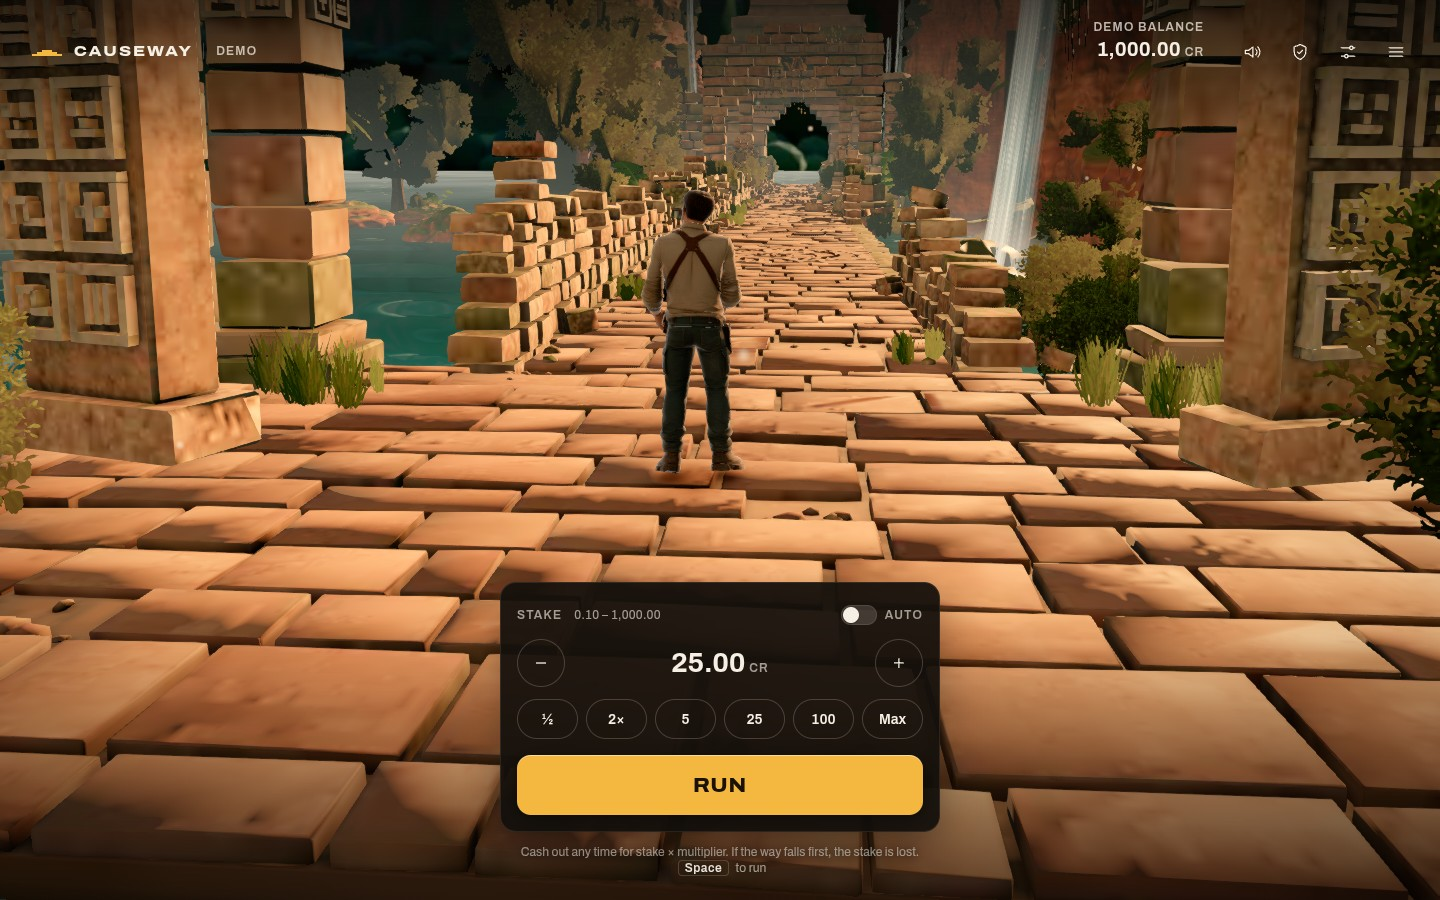
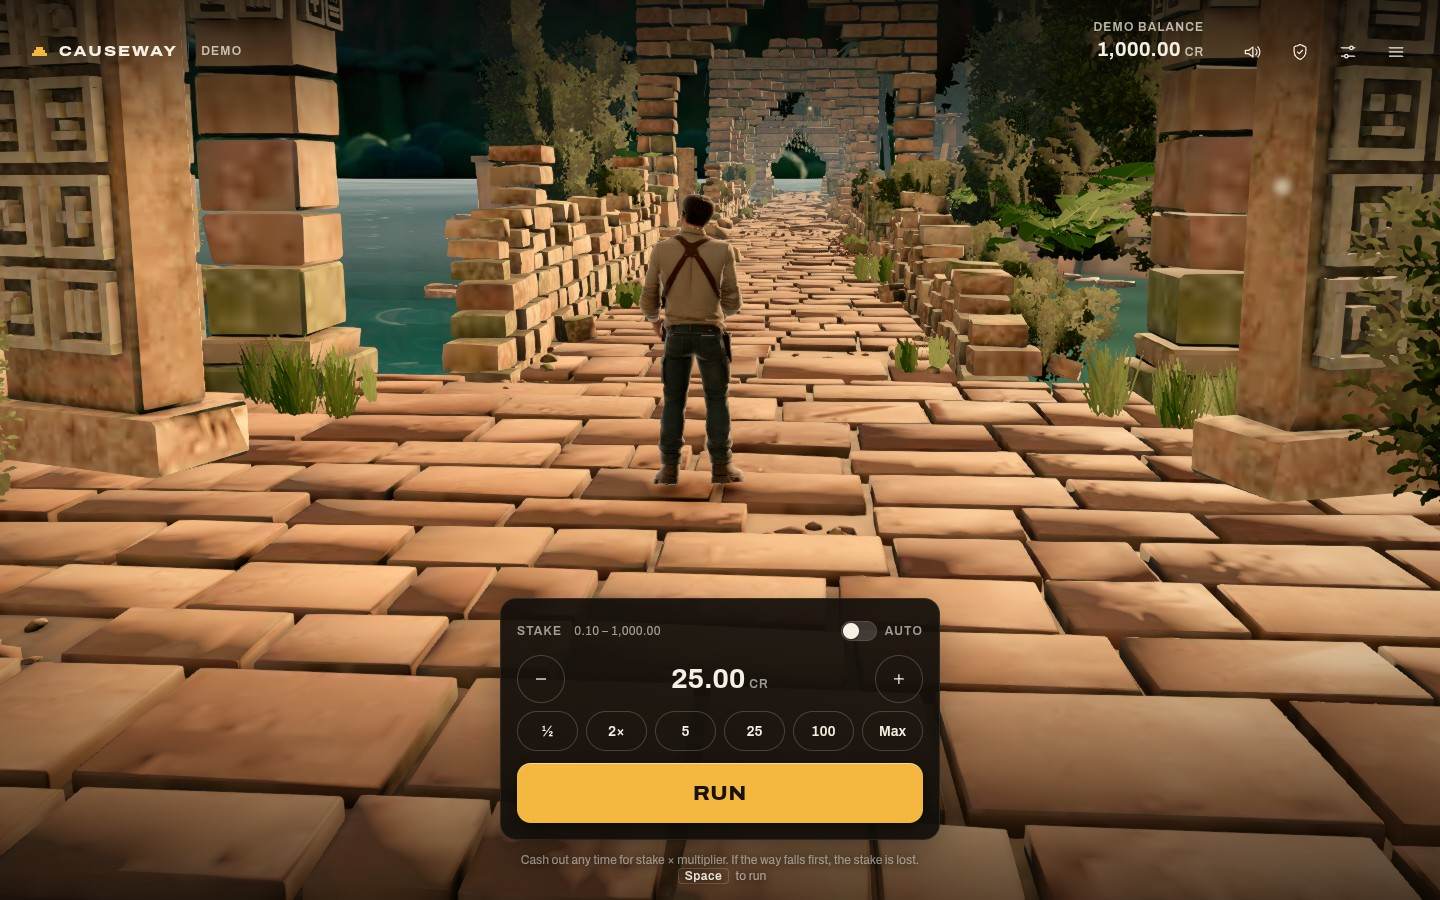
fix(ui): desktop dock rhythm keeps the setup dock under a third of 900 (e2e)
Claude-Session: https://claude.ai/code/session_013hVqKQyyDWxASYydmQotRx

diff --git a/src/ui/styles.css b/src/ui/styles.css
@@ -585,6 +585,12 @@ input[type='range']:focus-visible::-webkit-slider-thumb { box-shadow: 0 0 0 2px 
 @media (hover: none) and (pointer: coarse) {
   .kbd-hint { display: none; }
 }
+/* desktop: a tighter dock rhythm, so the dock with its fine print stays under a third of 900 */
+@media (min-width: 761px) and (min-height: 521px) {
+  .dock { bottom: calc(16px + var(--safe-b)); }
+  .setup-body { gap: 12px; }
+  .stake-col { gap: 8px; }
+}
 /* short desktops: the fine print goes, so the runner keeps its room */
 @media (min-width: 761px) and (min-height: 521px) and (max-height: 820px) {
   .fine { display: none; }
